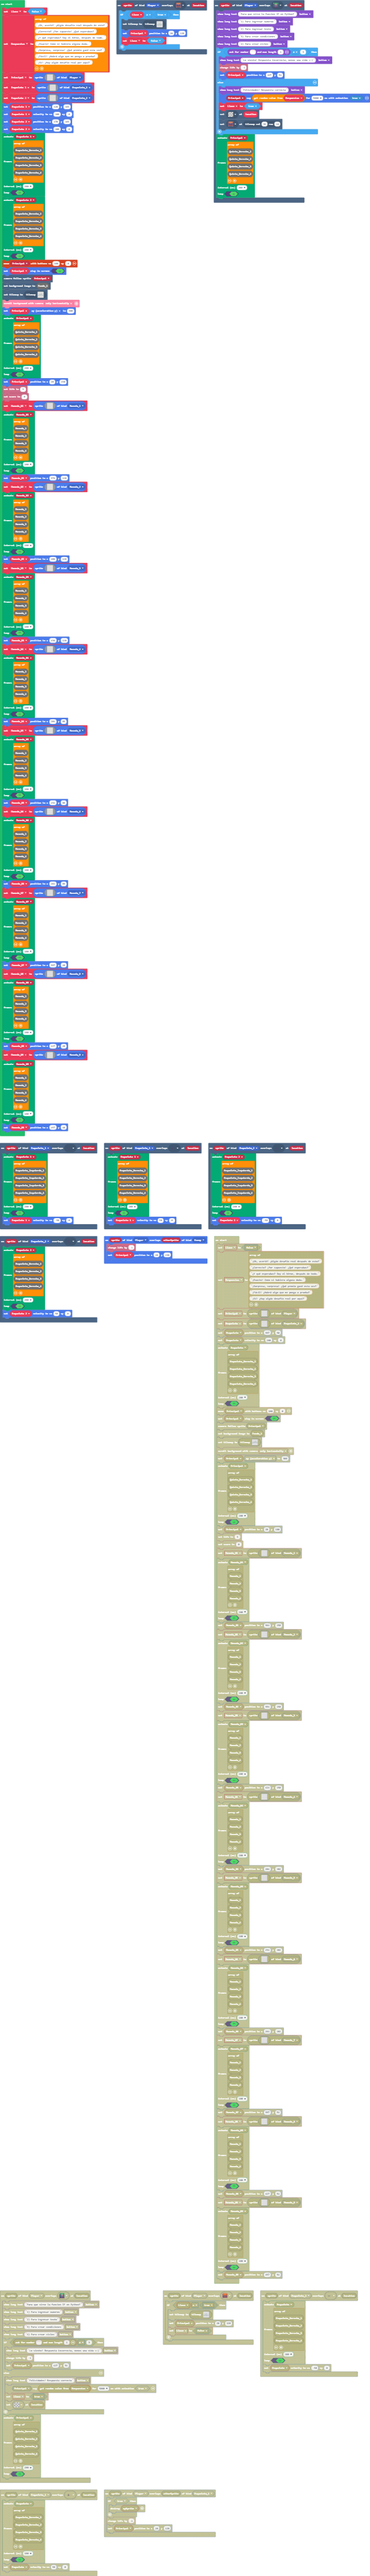
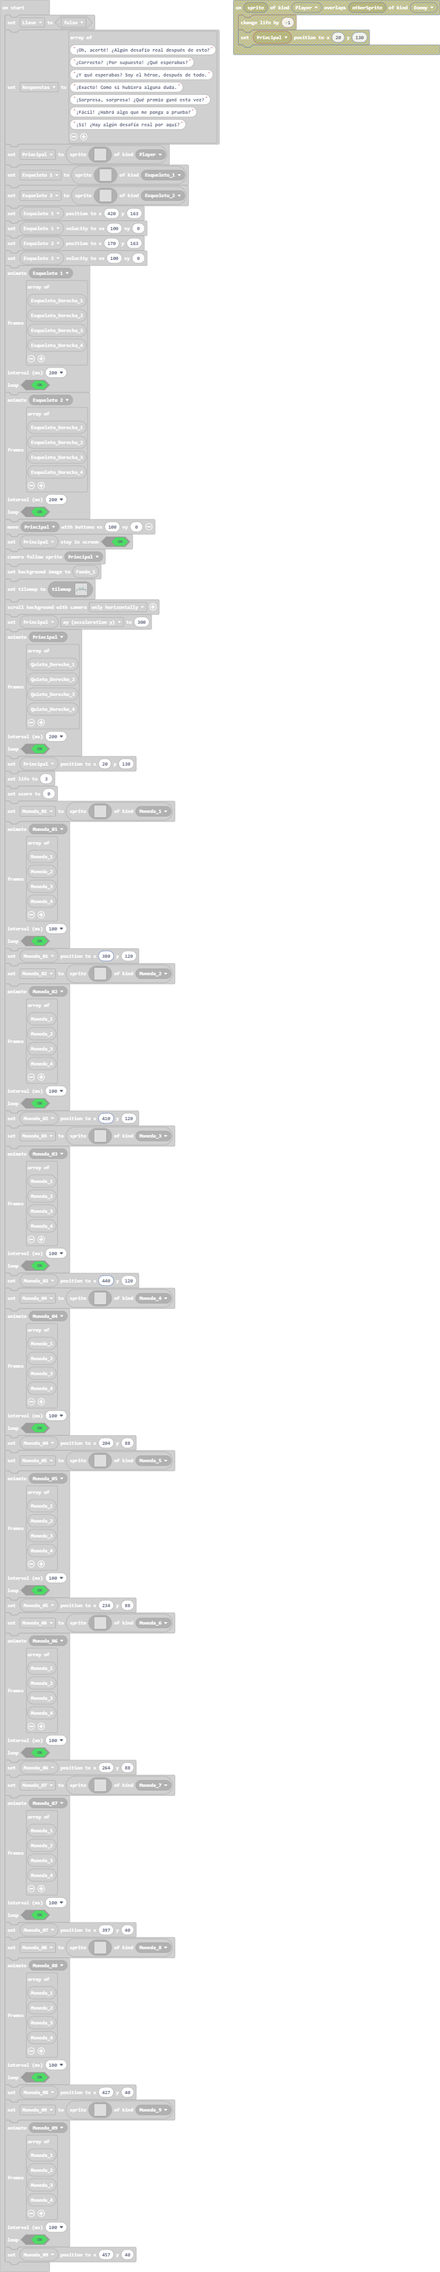
Update main.blocks, main.ts

diff --git a/main.ts b/main.ts
@@ -196,10 +196,6 @@ sprites.onOverlap(SpriteKind.Player, SpriteKind.Moneda_6, function (sprite, othe
     sprites.destroy(Moneda_06)
     info.changeScoreBy(1)
 })
-sprites.onOverlap(SpriteKind.Player, SpriteKind.Enemy, function (sprite, otherSprite) {
-    info.changeLifeBy(-1)
-    Principal.setPosition(20, 130)
-})
 let Moneda_09: Sprite = null
 let Moneda_08: Sprite = null
 let Moneda_07: Sprite = null
@@ -354,7 +350,7 @@ Moneda_4
 100,
 true
 )
-Moneda_01.setPosition(376, 120)
+Moneda_01.setPosition(380, 120)
 Moneda_02 = sprites.create(img`
     . . . . . . . . . . . . . . . . 
     . . . . . . . . . . . . . . . . 
@@ -384,7 +380,7 @@ Moneda_4
 100,
 true
 )
-Moneda_02.setPosition(406, 120)
+Moneda_02.setPosition(410, 120)
 Moneda_03 = sprites.create(img`
     . . . . . . . . . . . . . . . . 
     . . . . . . . . . . . . . . . . 
@@ -414,7 +410,7 @@ Moneda_4
 100,
 true
 )
-Moneda_03.setPosition(436, 120)
+Moneda_03.setPosition(440, 120)
 Moneda_04 = sprites.create(img`
     . . . . . . . . . . . . . . . . 
     . . . . . . . . . . . . . . . . 
